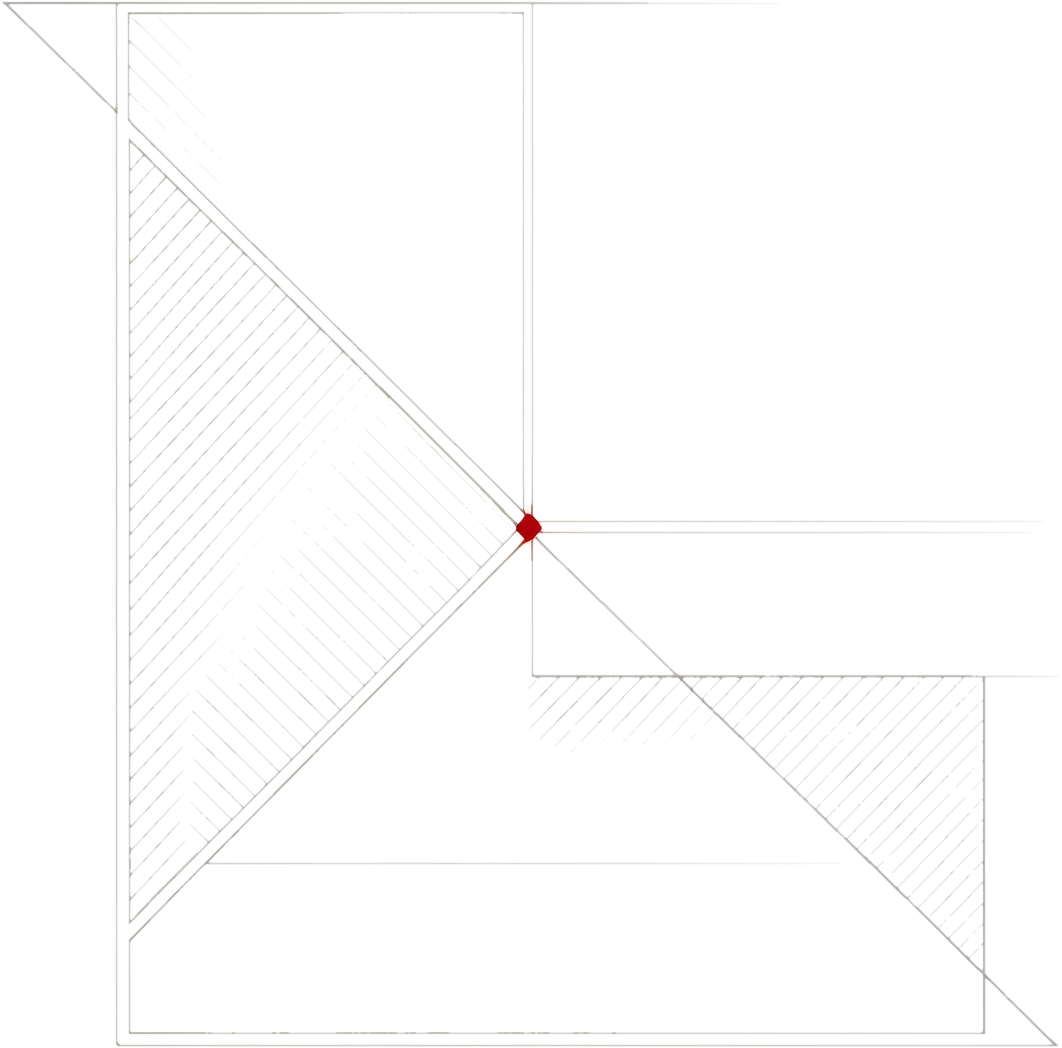
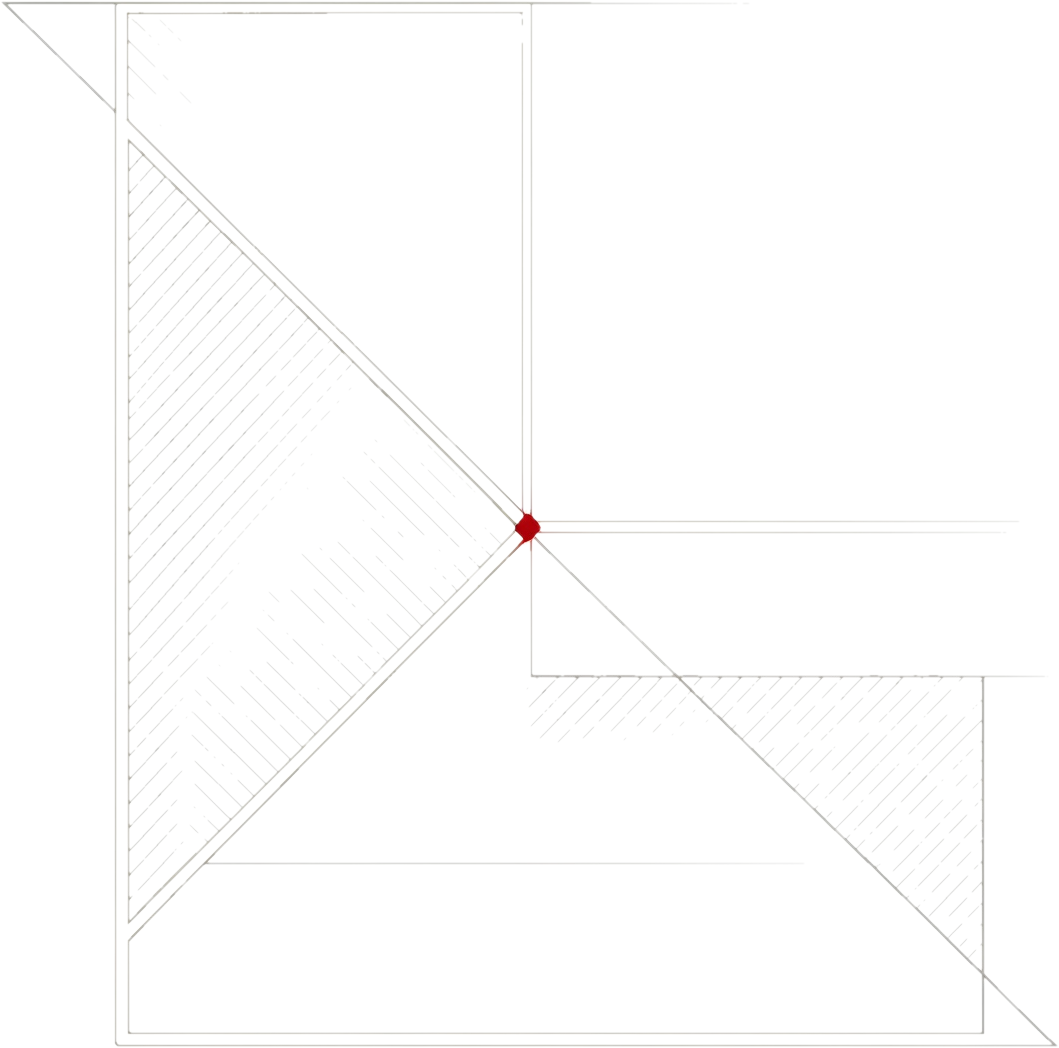
fix(站点): 修掉导航黑盒/hero空框/白斑/页面发灰
- 字标（含黑色底板）在 30px 导航里是黑盒 → 改为 emblem.png 徽记 + 文字字标
- reticle.png 抠图没吃掉白色实心盘 → 重抠（all 模式）成细线准星（当前页面未引用）
- hud_frame 在 hero 里是空框 → 移除（hero 只留立绘）
- bg_grid 是不透明暗图，原为全屏覆盖层导致整页发灰 → 改为 body 平铺背景
- scanline 是白色不透明图 → 移除叠加
- hud_corner 抠完是斜切装饰不像角标 → 弃用

diff --git a/site/index.html b/site/index.html
@@ -21,24 +21,20 @@
 html{scroll-behavior:smooth}
 body{margin:0;background:var(--bg);color:var(--tx);overflow-x:hidden;
   font:15px/1.75 "Segoe UI","Microsoft YaHei",system-ui,-apple-system,sans-serif;
-  -webkit-font-smoothing:antialiased}
+  -webkit-font-smoothing:antialiased;
+  background-image:url('assets/bg_grid.png');background-size:512px 512px}
 a{color:inherit;text-decoration:none}
 code{font-family:var(--mono);color:var(--red2)}
 .wrap{max-width:1240px;margin:0 auto;padding:0 28px}
 
-/* 全站叠加纹理 */
-.grid-tex{position:fixed;inset:0;z-index:0;pointer-events:none;opacity:.5;
-  background-image:url('assets/bg_grid.png');background-size:512px 512px}
-.scan{position:fixed;inset:0;z-index:70;pointer-events:none;opacity:.05;
-  mix-blend-mode:overlay;background:url('assets/scanline.png') center/cover no-repeat}
-
-/* ---------- 导航 ---------- */
+/* 导航 */
 .nav{position:fixed;top:0;left:0;right:0;z-index:50;height:64px;
   background:linear-gradient(180deg,rgba(10,12,15,.94),rgba(10,12,15,.45) 72%,transparent);
   backdrop-filter:blur(6px)}
 .nav .wrap{display:flex;align-items:center;height:64px;gap:24px}
-.nav .logo{display:flex;align-items:center}
-.nav .logo img{height:30px;display:block}
+.nav .logo{display:flex;align-items:center;gap:10px}
+.nav .logo img{height:28px;display:block}
+.nav .logo span{font-weight:800;letter-spacing:2.5px;font-size:14px;color:var(--tx)}
 .nav nav{display:flex;gap:22px;font-size:12.5px;letter-spacing:1.2px;margin-left:auto;text-transform:uppercase}
 .nav nav a{color:var(--dim);position:relative;padding:4px 0}
 .nav nav a:hover{color:var(--tx)}
@@ -77,9 +73,6 @@ code{font-family:var(--mono);color:var(--red2)}
 .hero-art{position:relative;display:flex;justify-content:center;align-items:flex-end;min-height:60vh}
 .hero-art .ch{position:relative;z-index:2;height:min(82svh,760px);width:auto;display:block;
   filter:drop-shadow(0 40px 70px rgba(0,0,0,.7)) drop-shadow(0 0 26px rgba(217,117,123,.12))}
-.hero-art .hud{position:absolute;inset:auto 0 -2% 0;height:78%;z-index:1;opacity:.5;
-  background:url('assets/hud_frame.png') center/contain no-repeat}
-.hero-art .ret{position:absolute;right:2%;top:14%;width:74px;opacity:.5;z-index:3}
 .miss{display:none !important}
 
 /* ---------- 通用分区 ---------- */
@@ -170,50 +163,6 @@ footer b{color:var(--dim)}
 </style>
 </head>
 <body>
-
-<div class="grid-tex"></div>
-<div class="scan"></div>
-
-<!-- ================= 导航 ================= -->
-<div class="nav"><div class="wrap">
-  <a class="logo" href="#top"><img src="assets/logo_ra3copilot.png" alt="RA3-COPILOT"></a>
-  <nav>
-    <a href="#about">简介</a><a href="#features">功能</a><a href="#arch">架构</a>
-    <a href="#usage">使用</a><a href="#mcp">脑机接口</a><a href="units.html">单位代码</a>
-  </nav>
-</div></div>
-
-<!-- ================= 主视觉 ================= -->
-<header class="hero" id="top">
-  <div class="bgart"></div>
-  <div class="veil"></div>
-  <div class="wrap">
-    <div class="hero-copy">
-      <span class="tag">◈ 红色警戒 3 · 日冕 MOD · 作战辅助系统</span>
-      <h1>RA3-<em>COPILOT</em></h1>
-      <div class="en">IN-GAME TACTICAL ASSISTANT</div>
-      <p>进程内接入游戏的<b>作战辅助系统</b>：以局内覆盖层呼出战术面板，接管资源、战斗、单位与召唤；
-         并把战局开放给 <b>AI 副官</b> —— 读态势、下指令、投部队。</p>
-      <div class="hero-cta">
-        <a class="btn primary" href="#usage">▸ 快速上手</a>
-        <a class="btn" href="units.html">◈ 单位代码查询器</a>
-        <a class="btn" href="https://github.com/ProbiusOfficial/Ra3-Copilot">◇ GitHub</a>
-      </div>
-      <div class="herostats">
-        <div><b>20</b><span>挂载点</span></div>
-        <div><b>410</b><span>可召唤单位</span></div>
-        <div><b>5461</b><span>对象代码</span></div>
-        <div><b>MCP</b><span>脑机接口</span></div>
-      </div>
-    </div>
-    <div class="hero-art">
-      <div class="hud"></div>
-      <img class="ch" src="assets/character_full.png" alt="RA3-COPILOT 副官"
-           onerror="this.classList.add('miss')">
-      <img class="ret" src="assets/reticle.png" alt="">
-    </div>
-  </div>
-</header>
 
 <div class="wrap">
 
@@ -352,7 +301,7 @@ footer b{color:var(--dim)}
 <footer>
   <div class="fl"></div>
   <div class="wrap">
-    <img class="lg" src="assets/logo_ra3copilot.png" alt="RA3-COPILOT">
+    <img class="lg" src="assets/emblem.png" alt="">
     <p><b>RA3-COPILOT</b> · 红色警戒 3 日冕 Mod 作战辅助系统。</p>
     <p>仅供单机学习与研究使用，禁止用于联机对战或破坏他人游戏体验。</p>
     <p>版本强绑定 <code>v1.12.3444.25830</code>；本仓库不含游戏素材与第三方数据。</p>

diff --git a/site/units.html b/site/units.html
@@ -119,7 +119,7 @@ footer b{color:var(--dim)}
 <body>
 
 <div class="top"><div class="wrap">
-  <span class="brand"><img src="assets/logo_ra3copilot.png" alt=""><i></i>单位代码</span>
+  <span class="brand"><img src="assets/emblem.png" alt=""><i></i>单位代码</span>
   <nav>
     <a href="#query">查询器</a><a href="#algo">算法</a><a href="#usable">可用性判据</a>
     <a href="#pipeline">提取流程</a><a href="#data">数据与工具</a>

diff --git a/unit-codes/tools/gen_site.py b/unit-codes/tools/gen_site.py
@@ -182,7 +182,7 @@ footer b{color:var(--dim)}
 <body>
 
 <div class="top"><div class="wrap">
-  <span class="brand"><img src="assets/logo_ra3copilot.png" alt=""><i></i>单位代码</span>
+  <span class="brand"><img src="assets/emblem.png" alt=""><i></i>单位代码</span>
   <nav>
     <a href="#query">查询器</a><a href="#algo">算法</a><a href="#usable">可用性判据</a>
     <a href="#pipeline">提取流程</a><a href="#data">数据与工具</a>
